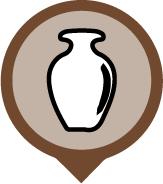
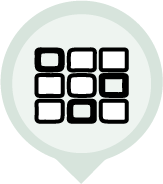
edit sheet without separate pins

diff --git a/src/app/map/map.component.html b/src/app/map/map.component.html
@@ -174,7 +174,7 @@
               </div>
             </div>
             <div class="brand-info">
-              <h3>{{'brand_information'|translate}}</h3>
+              <h3>{{'business_information'|translate}}</h3>
               <div class="row">
                 <div class="col-lg-6">
                   <div class="brand">
@@ -293,8 +293,8 @@
               </div>
               <div class="col-lg-6">
                 <div class="indicator">
-                  <img alt="indicator" src="../../assets/images/herf/jarid-crafts.png">
-                  <span>{{'jarid_crafts'|translate}}</span>
+                  <img alt="indicator" src="../../assets/images/herf/bead-making.png">
+                  <span>{{'bead_making'|translate}}</span>
                 </div>
               </div>
               <div class="col-lg-6">
@@ -317,8 +317,8 @@
               </div>
               <div class="col-lg-6">
                 <div class="indicator">
-                  <img alt="indicator" src="../../assets/images/herf/pottery.png">
-                  <span>{{'pottery'|translate}}</span>
+                  <img alt="indicator" src="../../assets/images/herf/palm-Crafts.png">
+                  <span>{{'palm_crafts'|translate}}</span>
                 </div>
               </div>
               <div class="col-lg-6">
@@ -335,14 +335,14 @@
               </div>
               <div class="col-lg-6">
                 <div class="indicator">
-                  <img alt="indicator" src="../../assets/images/herf/marble-and-ceramic.png">
-                  <span>{{'marble_ceramic'|translate}}</span>
+                  <img alt="indicator" src="../../assets/images/herf/pottery.png">
+                  <span>{{'pottery'|translate}}</span>
                 </div>
               </div>
               <div class="col-lg-6">
                 <div class="indicator">
-                  <img alt="indicator" src="../../assets/images/herf/bead-making.png">
-                  <span>{{'bead_making'|translate}}</span>
+                  <img alt="indicator" src="../../assets/images/herf/jewelery-and-Accessories.png">
+                  <span>{{'jewelery_accessories'|translate}}</span>
                 </div>
               </div>
               <div class="col-lg-6">
@@ -389,14 +389,8 @@
               </div>
               <div class="col-lg-6">
                 <div class="indicator">
-                  <img alt="indicator" src="../../assets/images/herf/jewelery-and-Accessories.png">
-                  <span>{{'jewelery_accessories'|translate}}</span>
-                </div>
-              </div>
-              <div class="col-lg-6">
-                <div class="indicator">
-                  <img alt="indicator" src="../../assets/images/herf/palm-Crafts.png">
-                  <span>{{'palm_crafts'|translate}}</span>
+                  <img alt="indicator" src="../../assets/images/herf/traditional-costumes.png">
+                  <span>{{'traditional_costumes'|translate}}</span>
                 </div>
               </div>
             </div>

diff --git a/src/app/map/map.component.ts b/src/app/map/map.component.ts
@@ -8,7 +8,7 @@ import { SerializationUtility } from '../shared/utility/serialization.utility';
 import * as _ from "lodash";
 import { Loader } from '@googlemaps/js-api-loader';
 import { environment } from 'src/environments/environment';
-import { MarkerClusterer } from '@googlemaps/markerclusterer';
+import { Cluster, MarkerClusterer, MarkerClustererOptions } from '@googlemaps/markerclusterer';
 import {MatDialog, MatDialogRef} from "@angular/material/dialog";
 import { GallaryComponent } from '../gallary/gallary.component';
 
@@ -18,6 +18,7 @@ import { GallaryComponent } from '../gallary/gallary.component';
   styleUrls: ['./map.component.scss']
 })
 export class MapComponent  implements OnInit {
+  markerClusterer!: MarkerClusterer;
   langSubscription!: Subscription;
   filterModel: any = new ParamsModel();
 
@@ -129,6 +130,7 @@ export class MapComponent  implements OnInit {
           }
           return data
         })
+        this.showList='crafts';
         this.onMapInit();
       });
     }else{
@@ -232,10 +234,28 @@ export class MapComponent  implements OnInit {
             return marker;
           });
           const map = this.map;
-          new MarkerClusterer({map, markers});
+          // Create a MarkerClusterer instance
+          this.markerClusterer = new MarkerClusterer({map, markers});
+           // Add click event listener to the MarkerClusterer
+          google.maps.event.addListener(this.markerClusterer, 'click', (cluster:Cluster) => {
+            this.showMarkers(cluster);
+          });
         }
 
       })
+  }
+
+  showMarkers(cluster: any) {
+    const clusterMarkers = cluster.markers;
+
+    // Loop through the cluster markers
+    clusterMarkers.forEach((marker:any) => {
+      // Show each marker on the map
+      marker.setMap(this.map);
+    });
+
+    // Zoom to fit the individual markers
+    this.map.fitBounds(cluster._position);
   }
 
   onShowImagesModal() {

diff --git a/src/app/home/why-atlas/why-atlas.component.html b/src/app/home/why-atlas/why-atlas.component.html
@@ -1,12 +1,11 @@
 <div class="content" id="contentID">
      <div class="imgBox">
-        <!-- <iframe width="95%" height="100%"
-         src="https://www.youtube.com/embed/FrqA0TpPB3E?si=9Qo0Wq6-gYjxsQjW"
-         title="YouTube video player" frameborder="0" allowfullscreen>
-        </iframe> -->
-
-        <button class="btnShow"><i class="fa-solid fa-expand"></i></button>
-        <button class="btnVideo"><i class="fa-brands fa-youtube"></i></button>
+        <iframe width="95%" height="100%"
+         src="https://www.youtube.com/embed/3A46xPem784?si=fKeQNlU6B-lQUCQs"
+          title="YouTube video player" frameborder="0"
+           allow="accelerometer; autoplay; clipboard-write; encrypted-media; gyroscope; picture-in-picture; web-share" allowfullscreen></iframe>
+        <!-- <button class="btnShow"><i class="fa-solid fa-expand"></i></button>
+        <button class="btnVideo"><i class="fa-brands fa-youtube"></i></button> -->
      </div>
 
      <div class="textBox">

diff --git a/src/app/home/home.component.scss b/src/app/home/home.component.scss
@@ -7,9 +7,9 @@
     padding-top: 17%;
     color: #fff;
     background-repeat: no-repeat;
-    background-image: url('../../assets/images/Group 4058.png');
+    background-image: url('../../assets/images/home.jpg');
     background-size: cover;
-    background-position: center center;
+    background-position: center 100%;
     position: relative;
 }
 .content::after{
@@ -21,7 +21,7 @@
   left: 0;
   width: 100%;
   height: 200px;
-  z-index: 2;
+  z-index: 1;
 }
 
 .content .textBox{

diff --git a/src/styles.scss b/src/styles.scss
@@ -79,7 +79,7 @@ body { margin: 0; font-family: Roboto, "Helvetica Neue", sans-serif; }
   }
 }
 html[dir="rtl"]{
-  body{font-family: 'din-regular' !important;}
+  body{font-family: 'din-regular' !important;overflow-x: hidden !important;}
   h1,h2,h3,h4,h5,h6{
     font-family: 'din-regular' !important;
   }

diff --git a/src/app/home/spot-light/spot-light.component.html b/src/app/home/spot-light/spot-light.component.html
@@ -53,7 +53,7 @@
     </div>
 
     <div class="textBox">
-        <h5>{{ 'greenTitle' | translate }}</h5>
+        <h5>{{ 'greenTitle1' | translate }} <br>{{'greenTitle2'|translate}}</h5>
         <p>{{ 'greencontent1' | translate }}</p>
 
         <p class="w-100"> {{ 'greencontent2' | translate }} </p>

diff --git a/src/app/home/spot-light/spot-light.component.ts b/src/app/home/spot-light/spot-light.component.ts
@@ -18,7 +18,7 @@ export class SpotLightComponent implements OnInit{
     navText: ['', '',''],
     items: 1,
     nav: false,
-    rtl: localStorage.getItem('lang') == 'ar' ? false : true
+    rtl: localStorage.getItem('lang') == 'ar' ? true : true
   }
   checkLang = '';
 
